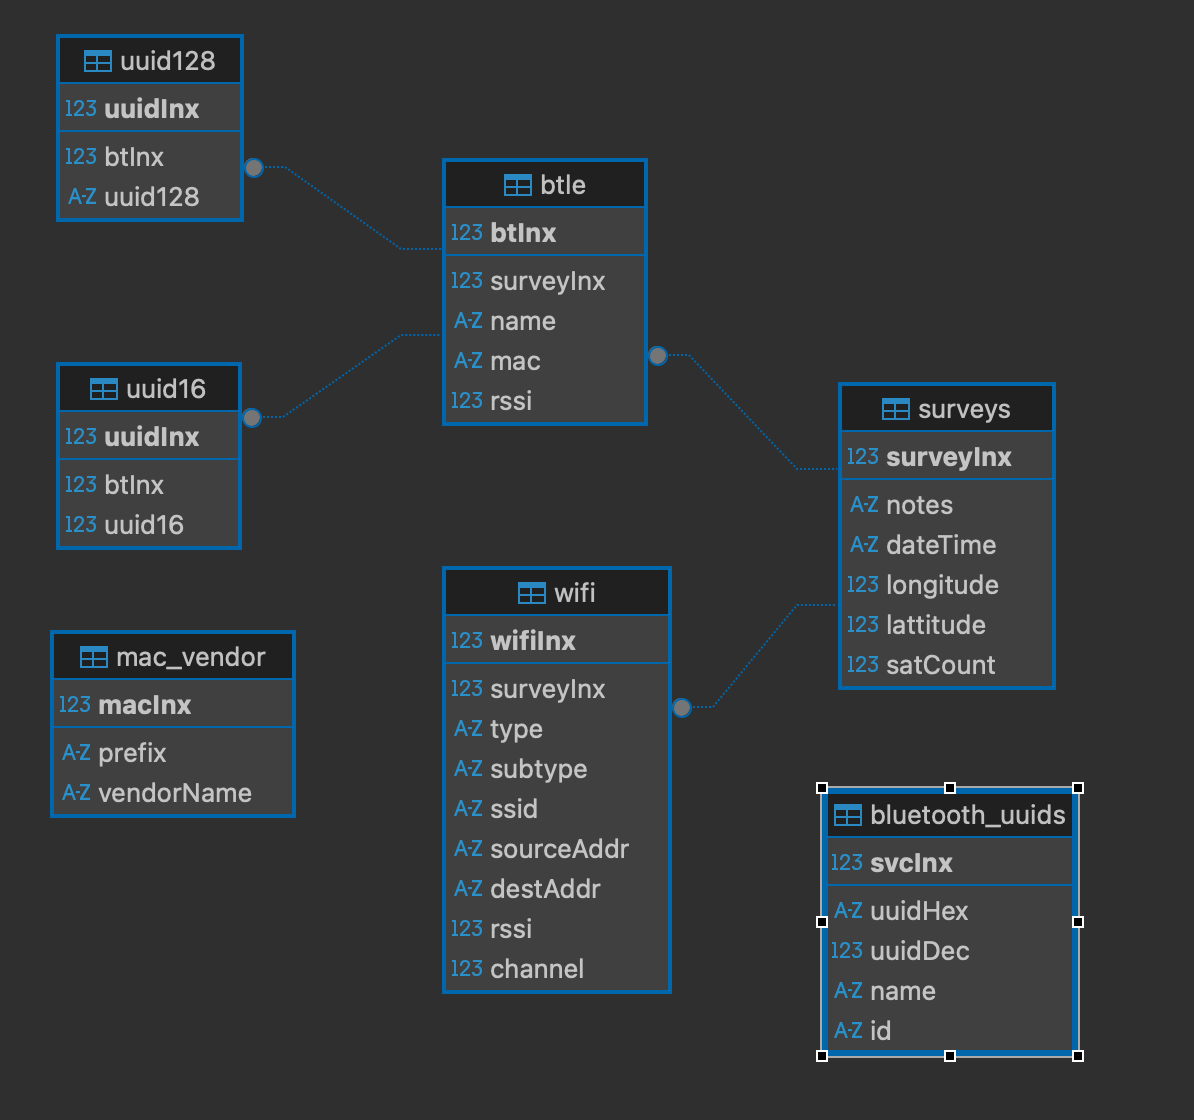
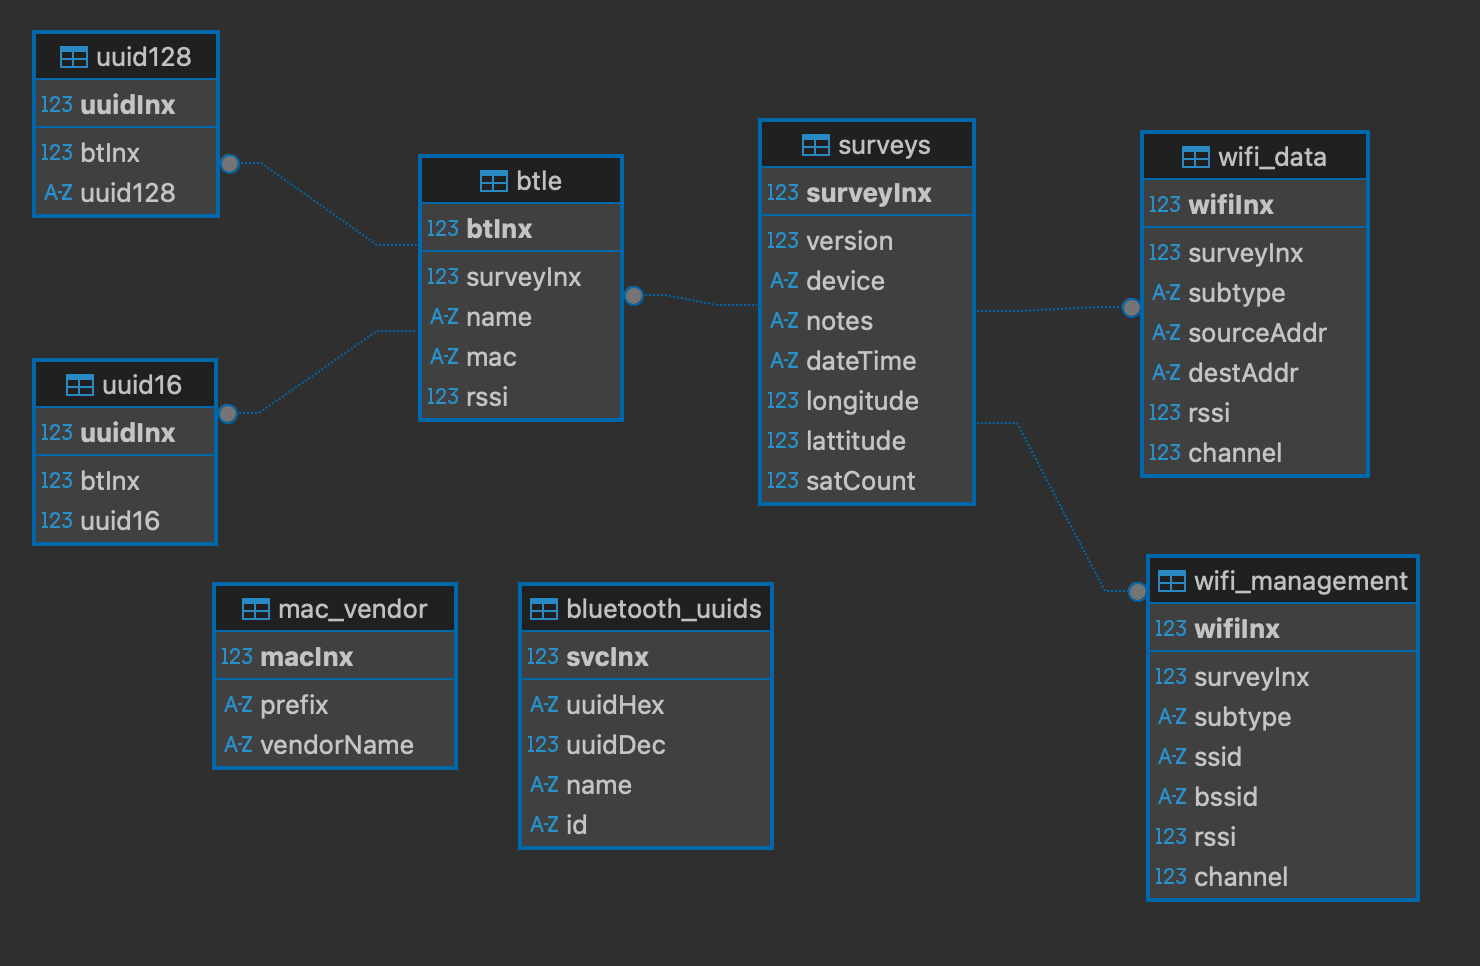
Added 'version' command, changed database schema to add device name to surveys table, updated scanner to tweak BT duration.  Changes to example sql and python script to go with DB schema changes.

Changed region(s): [[0.2479, 0.1242, 0.9606, 0.9627], [0.0, 0.3106, 0.3099, 0.8075], [0.0, 0.0311, 0.2169, 0.2484]]

diff --git a/src/Flocker/cli_impl.h b/src/Flocker/cli_impl.h
@@ -19,6 +19,11 @@ void writeChar(EmbeddedCli *embeddedCli, char c);
 /********************************************************
 * Command line handler callback functions:
 ********************************************************/
+// display build version and information
+void onVersion(EmbeddedCli* cli, char* args, void* context);
+const char* helpVersion = "version\r\n"
+                          "Display version and build information\r\n\r\n";
+
 // perform a manual device wireless survey
 void onSurvey(EmbeddedCli* cli, char* args, void* context);
 const char* helpSurvey = "survey [OPTION]\r\n"
@@ -26,9 +31,9 @@ const char* helpSurvey = "survey [OPTION]\r\n"
                          "  -i <INTERVAL>   interval in milliseconds to scan each WiFi channel\r\n"
                          "  -w              scan WiFi for broadcasters\r\n"
                          "  -b              scan for Bluetooth broadcasters\r\n"
-                         "  -f <FILENAME>   save results to FILENAME\r\n"
-                         "  -j <NOTES>      save results as JSON, with NOTES added for reference\r\n\r\n"
-                         "If neither the -b or -w parameter is set, a survey of both will be performed.  If data is saved to file, but the -j parameter is not supplied, the data will be in CSV format.\r\n\r\n";
+                         "  -f <FILENAME>   save results to FILENAME in JSON format\r\n"
+                         "  -n <NOTES>      add NOTES added for reference\r\n\r\n"
+                         "If neither the -b or -w parameter is set, a survey of both will be performed.  If the -f parameter is not passed, JSON results will be displayed in the terminal.\r\n\r\n";
 
 // clear terminal
 void onClear(EmbeddedCli* cli, char* args, void* context);
@@ -94,6 +99,7 @@ const char* helpConfig = "config [OPTION]\r\n"
   };
 *******************************************************/
 const struct CliCommandBinding bindings[] = {
+  {"version", "Display firmware version", helpVersion, false, nullptr, onVersion},
   {"survey", "Perform WiFi survey", helpSurvey, true, nullptr, onSurvey},
   {"clear", "Clear the console", helpClear, false, nullptr, onClear},
   {"reset", "Reboot the device", helpReset, true, nullptr, onReset},
@@ -155,6 +161,21 @@ void onConfig(EmbeddedCli* cli, char* args, void* context)
 }
 
 /******************************************************
+* onVersion()
+*******************************************************
+* Command to display version and build date/time
+*
+* Parameters:
+*   None
+*
+******************************************************/
+void onVersion(EmbeddedCli* cli, char* args, void* context)
+{
+  Serial.printf(CLI_CYA "Flocker version " CLI_BOLD_GRN "%d.%d.%d" CLI_RESET CLI_CYA ", built on %s at %s\r\n",
+    FLOCKER_VERSION_MAJOR, FLOCKER_VERSION_MINOR, FLOCKER_VERSION_SUBMINOR, __DATE__, __TIME__);
+}
+
+/******************************************************
 * onSurvey()
 *******************************************************
 * Command to perform a single scan for wireless devices
@@ -202,7 +223,7 @@ void onSurvey(EmbeddedCli* cli, char* args, void* context)
           {
             doWiFi = true;
           }
-          else if (argv[1] == 'j')
+          else if (argv[1] == 'n')
           {
             doJson = true;
             ++ii;

diff --git a/py/flock.py b/py/flock.py
@@ -40,6 +40,7 @@ class surveyJson:
             return None
 
     def getHeader(self):
+        device = self.getItem("Device")
         notes = self.getItem("SurveyNotes")
         dateTime = self.getItem("DateTime")
         longitude = self.getItem("LocationLongLat")[1]
@@ -49,6 +50,7 @@ class surveyJson:
 
         if (
             notes == None
+            or device == None
             or dateTime == None
             or longitude == None
             or lattitude == None
@@ -57,7 +59,7 @@ class surveyJson:
             return None
 
         else:
-            return (notes, version, dateTime, longitude, lattitude, satCount)
+            return (notes, device, version, dateTime, longitude, lattitude, satCount)
 
     def getNextWifiDevice(self):
         if self._wifiInx >= self._wifiCount:
@@ -150,6 +152,7 @@ class sq3db:
                     CREATE TABLE IF NOT EXISTS surveys (
                         surveyInx INTEGER PRIMARY KEY AUTOINCREMENT,
                         version INTEGER NOT NULL,
+                        device TEXT NOT NULL,
                         notes TEXT NOT NULL,
                         dateTime TEXT NOT NULL,
                         longitude REAL NOT NULL,
@@ -374,8 +377,8 @@ class sq3db:
         self._dbConnection.commit()
 
     def insertSurveyHeader(self, header: tuple):
-        qstring = 'INSERT INTO surveys (notes, version, dateTime, longitude, lattitude, satCount) values ("{}", {},"{}",{},{},{});'.format(
-            header[0], header[1], header[2], header[3], header[4], header[5]
+        qstring = 'INSERT INTO surveys (notes, device, version, dateTime, longitude, lattitude, satCount) values ("{}", "{}", {},"{}",{},{},{});'.format(
+            header[0], header[1], header[2], header[3], header[4], header[5], header[6]
         )
 
         self._cursor.execute(qstring)

diff --git a/src/Flocker/scanner.cpp b/src/Flocker/scanner.cpp
@@ -552,7 +552,7 @@ void SCANNER::survey(uint32_t interval, bool doWiFi, bool doBT, const char* fnam
     flockLog.addLogLine("SCAN", "survey() starting BTLE scan\r\n");
     Serial.printf(CLI_CYA "Starting BLE\r\n");
     this->startBLE();
-    delay(interval * 5);
+    delay(250);
     this->stopBLE();
     Serial.printf(CLI_CYA "BLE Done\r\n");
     flockLog.addLogLine("SCAN", "survey() BTLE scan done\r\n");
@@ -561,6 +561,8 @@ void SCANNER::survey(uint32_t interval, bool doWiFi, bool doBT, const char* fnam
   JsonDocument sur;
   if (notes && strlen(notes))     sur["SurveyNotes"] = notes;
   else                            sur["SurveyNotes"] = "Generic survey";
+
+  sur["Device"] = flockCfg.getDeviceName();
 
   JsonArray location = sur["LocationLongLat"].to<JsonArray>();
   location.add(gps.getLongitude());
@@ -662,8 +664,7 @@ void SCANNER::survey(uint32_t interval, bool doWiFi, bool doBT, const char* fnam
     serializeJsonPretty(sur, Serial);
     Serial.printf("\r\n");
   }
-
-  if (fname && strlen(fname))
+  else
   {
     Serial.printf(CLI_CYA "Saving survey results to " CLI_GRN "%s" CLI_CYA ", format " CLI_YEL "%s\r\n" CLI_RESET,
       fname, doJson ? "JSON" : "text");

diff --git a/src/Flocker/globals.h b/src/Flocker/globals.h
@@ -14,7 +14,10 @@
 /**********************************
 * Versions
 **********************************/
-#define FLOCKER_VERSION  "0.9a"
+#define FLOCKER_VERSION_MAJOR 0
+#define FLOCKER_VERSION_MINOR 9
+#define FLOCKER_VERSION_SUBMINOR 2
+
 #define SURVEY_JSON_VERSION  2
 
 
